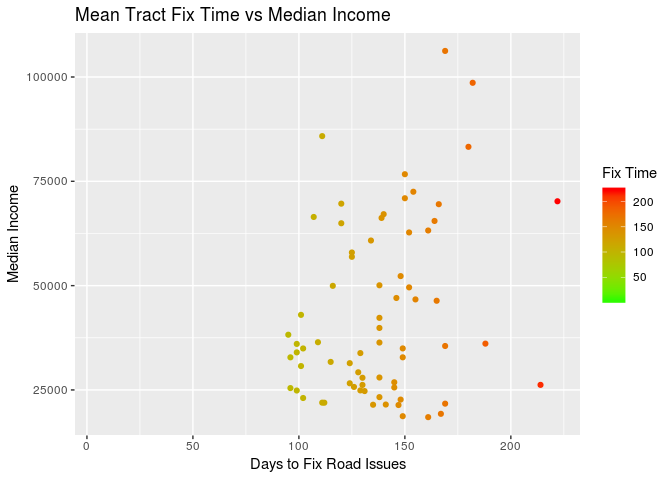
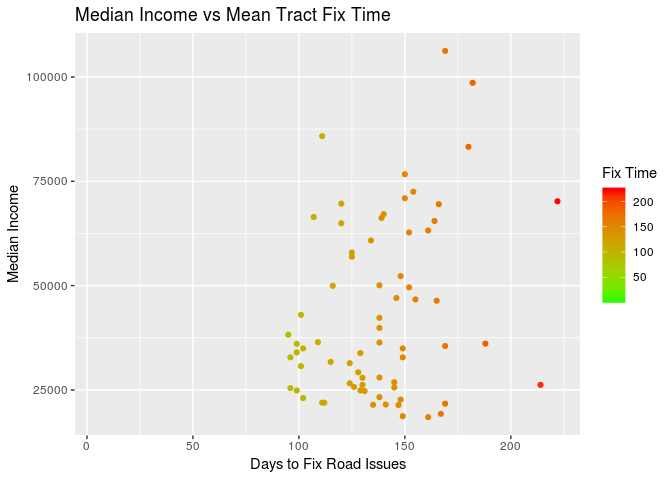
updating graph titles

Changed region(s): [[0.1562, 0.0, 0.5625, 0.0625]]

diff --git a/Rmd/groupProject.md b/Rmd/groupProject.md
@@ -138,7 +138,7 @@ ggplot()+
   labs(x = "Days to Fix Road Issues", y = "Median Income") + 
   labs(colour = "Fix Time") +
   scale_color_gradient2(mid="green",high="red", space ="Lab") +
-  ggtitle("Mean Tract Fix Time vs Median Income")
+  ggtitle("Median Income vs Mean Tract Fix Time")
 ```
 
 ![](groupProject_files/figure-markdown_github/unnamed-chunk-10-1.png)
@@ -197,7 +197,7 @@ ggplot()+
   labs(x = "Days to Fix Road Issues", y = "Median Income") + 
   labs(colour = "Fix Time") +
   scale_color_gradient2(mid="green",high="red", space ="Lab") +
-  ggtitle("Median Tract Fix Time vs Median Income")
+  ggtitle("Median Income vs Median Tract Fix Time")
 ```
 
 ![](groupProject_files/figure-markdown_github/unnamed-chunk-14-1.png)
